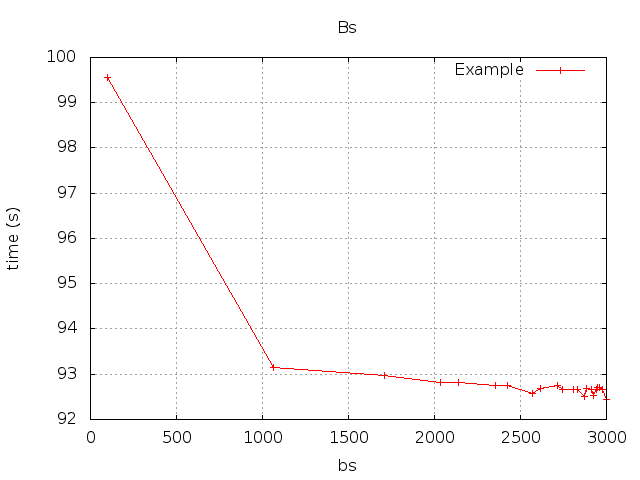
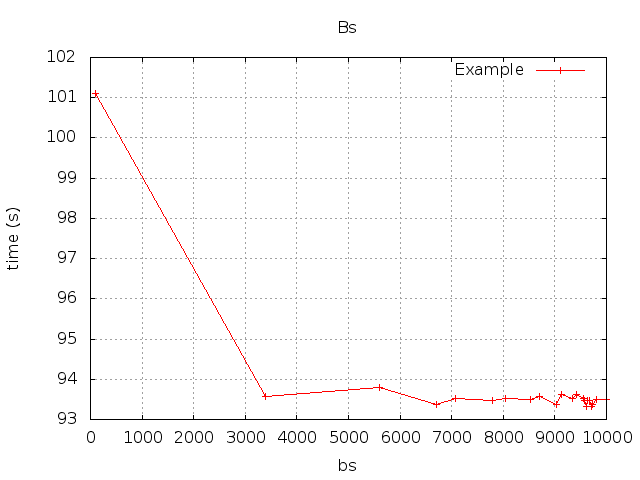
update tutorial

diff --git a/Addons/BenchEfficiency/scalfmm.html b/Addons/BenchEfficiency/scalfmm.html
@@ -1,7 +1,8 @@
 <h1 id="scalfmm-with-starpucuda">ScalFMM with StarPU+CUDA</h1>
+<p>In this tutorial, we provide the commands to install ScalFMM and the needed tools in order to compute parallel efficiencies. We first show how to obtain the homogeneous efficencies and then the heterogeneous ones (not done yet).</p>
 <h2 id="installing-the-libraries">Installing the libraries</h2>
-<p>For some installation steps, we provide a &quot;valid-if&quot; command which provide a basic test to ensure it should work. In case of success <code>STEP-OK</code> will be print-out. In addition, if a library is already installed on the system, it is possible to set the output variables directly and test with the &quot;valid-if&quot; command if it should work.</p>
-<p>The installation and configuration to have the execution traces and executions times are marked as <strong>Optional</strong> but higly recommended since they let have the efficiencies. However, if one wants to execute without any overhead, it might need to remove the usage of FXT.</p>
+<p>For some installation steps, we provide a &quot;valid-if&quot; test which shows if the previous command has been done correctly or not. In case of success <code>STEP-OK</code> will be print-out. In addition, if a library is already installed on the system, it is possible to set the output variables directly and test with the &quot;valid-if&quot; command if it will work.</p>
+<p>It is possible to follow these steps only to compile ScalFMM above StarPU and so we marked the installation of execution-trace tools as <strong>Optional</strong>. However, we higly recommended to install them and to follow all the steps since they let have the efficiencies. But if one wants to execute without any overhead, it might need to remove the usage of FXT.</p>
 <h3 id="pre-requiste">Pre-requiste:</h3>
 <p>In order to follow this tutorial, it is needed to have the following applications installed:</p>
 <ul>
@@ -16,22 +17,20 @@
 <li><strong>Optional</strong> Qt5 library to be able to change the colors of the execution traces in order to visualize the different FMM operators</li>
 </ul>
 <blockquote>
-<p>Some installations of CUDA does not have libcuda file. In this case, one needs to create a link : <code>sudo ln /usr/local/cuda-7.5/lib64/libcudart.so /usr/local/cuda-7.5/lib64/libcuda.so</code></p>
+<p>[Remark] Some installations of CUDA does not have libcuda file. In this case, one needs to create a link : <code>sudo ln /usr/local/cuda-7.5/lib64/libcudart.so /usr/local/cuda-7.5/lib64/libcuda.so</code></p>
 </blockquote>
 <blockquote>
 <p>[Plafrim-Developers]</p>
-<p>Alloc a node : salloc -N 1 --time=03:00:00 --exclusive -p court_sirocco -CHaswell --gres=gpu:4 -x sirocco06</p>
-<p>Find it: squeue and ssh on it</p>
-<p>Load modules : module load compiler/gcc/4.9.2 cuda75/toolkit/7.5.18 intel/mkl/64/11.2/2016.0.0 build/cmake/3.2.1</p>
+<p>For those who use this tutorial on Plafrim (or a similar cluster), we provide extra informations.</p>
+<p>To allocate an heterogeneous node : <code>salloc -N 1 --time=03:00:00 --exclusive -p court_sirocco -CHaswell --gres=gpu:4 -x sirocco06</code></p>
+<p>Then, find it using <code>squeue</code> and access it by <code>ssh</code>.</p>
+<p>We have run this tutorial with the modules : <code>module load compiler/gcc/4.9.2 cuda75/toolkit/7.5.18 intel/mkl/64/11.2/2016.0.0 build/cmake/3.2.1</code></p>
 </blockquote>
 <h3 id="working-directory">Working directory</h3>
-<p>The variable <code>SCALFMM_TEST_DIR</code> is used to specify the working directory:</p>
-<pre class="bash"><code>export SCALFMM_TEST_DIR=~/scalfmm_test
-if [[ ! -d $SCALFMM_TEST_DIR ]] ; then
-	mkdir $SCALFMM_TEST_DIR
-fi    
+<p>The variable <code>SCALFMM_TEST_DIR</code> is used to specify the working directory where all the tools are going to be installed:</p>
+<pre class="bash"><code>export SCALFMM_TEST_DIR=~/scalfmm_test   
 cd $SCALFMM_TEST_DIR</code></pre>
-<p>In order to be able to stop the tutorial in the middle and restart later, we will keep the register variables in a file that should be source to restart.</p>
+<p>In order to be able to stop the tutorial in the middle and restart later, we will register the variables in a file that should be source to restart later:</p>
 <pre class="bash"><code>function scalfmmRegisterVariable() { echo &quot;export $1=${!1}&quot; &gt;&gt; &quot;$SCALFMM_TEST_DIR/environment.source&quot;; }
 echo &quot;function scalfmmRegisterVariable() { echo \&quot;export $1=${!1}\&quot; &gt;&gt; \&quot;$SCALFMM_TEST_DIR/environment.source\&quot;; }&quot; &gt; &quot;$SCALFMM_TEST_DIR/environment.source&quot;</code></pre>
 <p><em>Output variables:</em> <code>scalfmmRegisterVariable SCALFMM_TEST_DIR</code></p>
@@ -39,8 +38,18 @@ echo &quot;function scalfmmRegisterVariable() { echo \&quot;export $1=${!1}\&quo
 <pre class="bash"><code>if [[ -n $SCALFMM_TEST_DIR ]] &amp;&amp; [[ -d $SCALFMM_TEST_DIR ]] ; then
    echo “STEP-OK”
 fi</code></pre>
-<h3 id="downloading-packages">Downloading Packages</h3>
-<p>In case the node used for compiling/testing do not have access to internet, then download the following packages first.</p>
+<ul>
+<li>Restarting the tutorial</li>
+</ul>
+<p>To restart the tutorial, one needs to re-define the working directory and to source the save file before to resume:</p>
+<pre><code>export SCALFMM_TEST_DIR=~/scalfmm_test
+if [[ ! -d $SCALFMM_TEST_DIR ]] ; then
+	mkdir $SCALFMM_TEST_DIR
+fi    
+cd $SCALFMM_TEST_DIR
+source &quot;$SCALFMM_TEST_DIR/environment.source&quot;</code></pre>
+<h3 id="downloading-the-packages-in-advance">Downloading the Packages (in Advance)</h3>
+<p>If the computational node does not have access to internet, we provide a command to download the needed packages (otherwise the next commands still include just in time download):</p>
 <pre class="bash"><code>cd $SCALFMM_TEST_DIR
 wget https://www.open-mpi.org/software/hwloc/v1.11/downloads/hwloc-1.11.2.tar.gz
 wget http://download.savannah.gnu.org/releases/fkt/fxt-0.2.11.tar.gz # Optional
@@ -60,7 +69,7 @@ make install</code></pre>
 <p><em>Output variables:</em> <code>scalfmmRegisterVariable SCALFMM_HWLOC_DIR</code></p>
 <p>Valid-if:</p>
 <pre class="bash"><code>if [[ -n $SCALFMM_HWLOC_DIR ]] &amp;&amp; [[ -d $SCALFMM_HWLOC_DIR/lib/ ]] &amp;&amp; [[ -f  $SCALFMM_HWLOC_DIR/lib/libhwloc.so ]]; then
-   echo “OK”
+   echo &quot;STEP-OK&quot;
 fi</code></pre>
 <h3 id="fxt-optional">FXT (<strong>Optional</strong>)</h3>
 <pre class="bash"><code>cd $SCALFMM_TEST_DIR
@@ -75,10 +84,10 @@ make install</code></pre>
 <p><em>Output variables:</em> <code>scalfmmRegisterVariable SCALFMM_FXT_DIR</code></p>
 <p>Valid-if:</p>
 <pre class="bash"><code>if [[ -n $SCALFMM_FXT_DIR ]] &amp;&amp; [[ -d $SCALFMM_FXT_DIR/lib/ ]] &amp;&amp; [[ -f  $SCALFMM_FXT_DIR/lib/libfxt.so ]]; then
-   echo “OK”
+   echo &quot;STEP-OK&quot;
 fi</code></pre>
-<h3 id="fftw">FFTW</h3>
-<p>The MKL can be used otherwise we need the FFTW lib:</p>
+<h3 id="fftw-if-no-mkl-fft">FFTW (If No MKL-FFT)</h3>
+<p>For those who do not use MKL FFT interface, they have to install FFTW (float/double):</p>
 <pre class="bash"><code>cd $SCALFMM_TEST_DIR
 if [[ ! -f fftw-3.3.4.tar.gz ]] ; then
     wget http://www.fftw.org/fftw-3.3.4.tar.gz
@@ -93,7 +102,7 @@ make install</code></pre>
 <p><em>Output variables:</em> <code>scalfmmRegisterVariable SCALFMM_FFTW_DIR</code></p>
 <p>Valid-if:</p>
 <pre class="bash"><code>if [[ -n $SCALFMM_FFTW_DIR ]] &amp;&amp; [[ -d $SCALFMM_FFTW_DIR/lib/ ]] &amp;&amp; [[ -f  $SCALFMM_FFTW_DIR/lib/libfftw3.a ]] &amp;&amp; [[ -f  $SCALFMM_FFTW_DIR/lib/libfftw3f.a ]]; then
-   echo “OK”
+   echo &quot;STEP-OK&quot;
 fi</code></pre>
 <h3 id="starpu">StarPU</h3>
 <pre class="bash"><code>cd $SCALFMM_TEST_DIR
@@ -111,7 +120,7 @@ make install</code></pre>
 <p><em>Output variables:</em> <code>scalfmmRegisterVariable SCALFMM_STARPU_DIR</code></p>
 <p>Valid-if:</p>
 <pre class="bash"><code>if [[ -n $SCALFMM_STARPU_DIR ]] &amp;&amp; [[ -d $SCALFMM_STARPU_DIR/lib/ ]] &amp;&amp; [[ -f  $SCALFMM_STARPU_DIR/lib/libstarpu.so ]] ; then
-   echo “OK”
+   echo &quot;STEP-OK&quot;
 fi</code></pre>
 <h3 id="scalfmm">ScalFMM</h3>
 <h4 id="configure">Configure</h4>
@@ -139,14 +148,14 @@ export SCALFMM_BUILD_DIR=`pwd`</code></pre></li>
 </blockquote>
 <pre class="bash"><code>cmake .. -DSCALFMM_BUILD_DEBUG=OFF -DSCALFMM_USE_MPI=OFF -DSCALFMM_BUILD_TESTS=ON -DSCALFMM_BUILD_UTESTS=OFF -DSCALFMM_USE_BLAS=ON -DSCALFMM_USE_MKL_AS_BLAS=ON -DSCALFMM_USE_LOG=ON -DSCALFMM_USE_STARPU=ON -DSCALFMM_USE_CUDA=ON -DSCALFMM_USE_OPENCL=OFF -DHWLOC_DIR=$SCALFMM_HWLOC_DIR -DSTARPU_DIR=$SCALFMM_STARPU_DIR -DSCALFMM_USE_FFT=ON -DSCALFMM_USE_MKL_AS_FFTW=ON</code></pre>
 <p>Valid-if:</p>
-<pre><code>cmake .. ; if [[ &quot;$?&quot; == &quot;0&quot; ]] ; then echo &quot;OK&quot; ; fi</code></pre>
+<pre><code>cmake .. ; if [[ &quot;$?&quot; == &quot;0&quot; ]] ; then echo &quot;STEP-OK&quot; ; fi</code></pre>
 <h4 id="build">Build</h4>
 <pre class="bash"><code>cd $SCALFMM_BUILD_DIR
 make testBlockedUnifCudaBench</code></pre>
 <p>Valid-if:</p>
-<pre><code>ls ./Tests/Release/testBlockedUnifCudaBench ; if [[ &quot;$?&quot; == &quot;0&quot; ]] ; then echo &quot;OK&quot; ; fi</code></pre>
-<h4 id="basic-executions">Basic Executions</h4>
-<p>Information for scalfmm binaries</p>
+<pre><code>ls ./Tests/Release/testBlockedUnifCudaBench ; if [[ &quot;$?&quot; == &quot;0&quot; ]] ; then echo &quot;STEP-OK&quot; ; fi</code></pre>
+<h4 id="first-execution">First Execution</h4>
+<p>In this section we compute a simulation and look at the resulting trace. ScalFMM binary parameters and descriptions:</p>
 <ul>
 <li>Passing <code>--help</code> as parameter provide the possible/valid parameters</li>
 <li>Simulation properties are choosen by :</li>
@@ -186,10 +195,10 @@ export STARPU_NCUDA=2
 </ul>
 <p>Convert the fxt file</p>
 <pre class="bash"><code>$SCALFMM_STARPU_DIR/bin/starpu_fxt_tool -i &quot;/tmp/prof_file_&quot;$USER&quot;_0&quot;</code></pre>
-<p>Then visualize the output with vite</p>
+<p>Then visualize the output with <code>vite</code></p>
 <pre class="bash"><code>vite ./paje.trace</code></pre>
 <p>Should be like: // IMAGE HERE</p>
-<p>We can convert the color of the trace by (it needs Qt5 library):</p>
+<p>We can convert the color of the trace by (requiere Qt5 library):</p>
 <pre class="bash"><code>$SCALFMM_SOURCE_DIR/Addons/BenchEfficiency/pajecolor paje.trace $SCALFMM_SOURCE_DIR/Addons/BenchEfficiency/paintmodel.fmm.colors
 vite ./paje.trace.painted</code></pre>
 <p>Should be like: // IMAGE HERE</p>
@@ -239,7 +248,7 @@ vite ./paje.trace.painted</code></pre>
 <pre><code>cd $SCALFMM_BUILD_DIR
 export SCALFMM_RES_DIR=$SCALFMM_BUILD_DIR/homogeneous
 mkdir $SCALFMM_RES_DIR</code></pre>
-<p><em>Output variable:</em> <code>scalfmmRegisterVariable SCALFMM_AB</code></p>
+<p><em>Output variable:</em> <code>scalfmmRegisterVariable SCALFMM_RES_DIR</code></p>
 <p>Set up the configuration variables:</p>
 <pre class="bash"><code>export SCALFMM_NB=10000000
 export SCALFMM_H=7
@@ -260,10 +269,12 @@ export SCALFMM_BS_CPU_PAR=`$SCALFMM_AB/scalfmmFindBs.sh &quot;./Tests/Release/te
 if [[ `which gnuplot | wc -l` == &quot;1&quot; ]] ;  then
     gnuplot -e &quot;filename=&#39;par-bs-search&#39;&quot; $SCALFMM_AB/scalfmmFindBs.gplot
 fi</code></pre>
-<p>In our case we get and 5385.</p>
+<p>In our case we get 9710 and 5385.</p>
 <p><em>Output variable:</em> <code>scalfmmRegisterVariable SCALFMM_BS_CPU_SEQ</code> <code>scalfmmRegisterVariable SCALFMM_BS_CPU_PAR</code></p>
 <p>Then we compute the efficiency using both granulirities and keep the .rec files:</p>
-<pre class="bash"><code>source $SCALFMM_AB/execAllHomogeneous.sh</code></pre>
+<pre class="bash"><code>export SCALFMM_MAX_NB_CPU=24
+export STARPU_NCUDA=0
+source $SCALFMM_AB/execAllHomogeneous.sh</code></pre>
 <p>We should end with all the .rec files and their corresponding time files</p>
 <pre class="bash"><code>ls $SCALFMM_RES_DIR</code></pre>
 <p>We compute the efficiencies</p>
@@ -273,7 +284,7 @@ fi</code></pre>
 <p>We can plot each of them</p>
 <pre class="bash"><code>source $SCALFMM_AB/plotEfficiencies.sh $SCALFMM_RES_DIR/efficiencies.txt</code></pre>
 <p>Sould give: // IMAGE HERE</p>
-<h2 id="generating-execution-results">Generating Execution Results</h2>
+<h2 id="heterogeneous">Heterogeneous</h2>
 <p>For test case <code>-nb 10000000</code> (10 million) and <code>-h 6</code> (height of the tree equal to 6), we first want to know the best granularity <code>-bs</code>.</p>
 <p>This parameter will certainly not be the same for sequential/parallel/heterogenous configurations.</p>
 <pre class="bash"><code>export SCALFMM_NB=10000000

diff --git a/Addons/BenchEfficiency/scalfmm.md b/Addons/BenchEfficiency/scalfmm.md
@@ -1,14 +1,18 @@
 ScalFMM with StarPU+CUDA
 ========================
 
+In this tutorial, we provide the commands to install ScalFMM and the needed tools in order to compute parallel efficiencies.
+We first show how to obtain the homogeneous efficencies and then the heterogeneous ones (not done yet).
+
 ## Installing the libraries
 
-For some installation steps, we provide a "valid-if" command which provide a basic test to ensure it should work.
+For some installation steps, we provide a "valid-if" test which shows if the previous command has been done correctly or not.
 In case of success `STEP-OK` will be print-out.
-In addition, if a library is already installed on the system, it is possible to set the output variables directly and test with the "valid-if" command if it should work.
+In addition, if a library is already installed on the system, it is possible to set the output variables directly and test with the "valid-if" command if it will work.
 
-The installation and configuration to have the execution traces and executions times are marked as __Optional__ but higly recommended since they let have the efficiencies.
-However, if one wants to execute without any overhead, it might need to remove the usage of FXT.
+It is possible to follow these steps only to compile ScalFMM above StarPU and so we marked the installation of execution-trace tools as __Optional__.
+However, we higly recommended to install them and to follow all the steps since they let have the efficiencies.
+But if one wants to execute without any overhead, it might need to remove the usage of FXT.
 
 ### Pre-requiste:
 In order to follow this tutorial, it is needed to have the following applications installed:
@@ -23,34 +27,32 @@ In order to follow this tutorial, it is needed to have the following application
 * __Optional__ Vite (from `sudo apt-get install vite` or see [http://vite.gforge.inria.fr/download.php](http://vite.gforge.inria.fr/download.php))
 *  __Optional__ Qt5 library to be able to change the colors of the execution traces in order to visualize the different FMM operators
 
-> Some installations of CUDA does not have libcuda file.
+> [Remark] Some installations of CUDA does not have libcuda file.
 > In this case, one needs to create a link : `sudo ln /usr/local/cuda-7.5/lib64/libcudart.so /usr/local/cuda-7.5/lib64/libcuda.so`
 
 > [Plafrim-Developers] 
 >
-> Alloc a node : salloc -N 1 --time=03:00:00 --exclusive -p court_sirocco -CHaswell --gres=gpu:4 -x sirocco06
-> 
-> Find it: squeue and ssh on it
+> For those who use this tutorial on Plafrim (or a similar cluster), we provide extra informations.
 >
-> Load modules : module load compiler/gcc/4.9.2 cuda75/toolkit/7.5.18 intel/mkl/64/11.2/2016.0.0 build/cmake/3.2.1
+> To allocate an heterogeneous node : `salloc -N 1 --time=03:00:00 --exclusive -p court_sirocco -CHaswell --gres=gpu:4 -x sirocco06`
+> 
+> Then, find it using `squeue` and access it by `ssh`.
+>
+> We have run this tutorial with the modules : `module load compiler/gcc/4.9.2 cuda75/toolkit/7.5.18 intel/mkl/64/11.2/2016.0.0 build/cmake/3.2.1`
 
 ### Working directory
 
-The variable `SCALFMM_TEST_DIR` is used to specify the working directory:
+The variable `SCALFMM_TEST_DIR` is used to specify the working directory where all the tools are going to be installed:
 ```bash
-export SCALFMM_TEST_DIR=~/scalfmm_test
-if [[ ! -d $SCALFMM_TEST_DIR ]] ; then
-	mkdir $SCALFMM_TEST_DIR
-fi    
+export SCALFMM_TEST_DIR=~/scalfmm_test   
 cd $SCALFMM_TEST_DIR
 ```
 
-In order to be able to stop the tutorial in the middle and restart later, we will keep the register variables in a file that should be source to restart.
+In order to be able to stop the tutorial in the middle and restart later, we will register the variables in a file that should be source to restart later:
 ```bash
 function scalfmmRegisterVariable() { echo "export $1=${!1}" >> "$SCALFMM_TEST_DIR/environment.source"; }
 echo "function scalfmmRegisterVariable() { echo \"export $1=${!1}\" >> \"$SCALFMM_TEST_DIR/environment.source\"; }" > "$SCALFMM_TEST_DIR/environment.source"
 ```
-
 
 *Output variables:* `scalfmmRegisterVariable SCALFMM_TEST_DIR`
 
@@ -61,10 +63,21 @@ if [[ -n $SCALFMM_TEST_DIR ]] && [[ -d $SCALFMM_TEST_DIR ]] ; then
 fi
 ```
 
+- Restarting the tutorial
+
+To restart the tutorial, one needs to re-define the working directory and to source the save file before to resume:
+```
+export SCALFMM_TEST_DIR=~/scalfmm_test
+if [[ ! -d $SCALFMM_TEST_DIR ]] ; then
+	mkdir $SCALFMM_TEST_DIR
+fi    
+cd $SCALFMM_TEST_DIR
+source "$SCALFMM_TEST_DIR/environment.source"
+```
+
 ### Downloading Packages
 
-In case the node used for compiling/testing do not have access to internet, then download the following packages first.
-
+If the computational node does not have access to internet, we provide a command to download the needed packages (otherwise the next commands still include just in time download):
 ```bash
 cd $SCALFMM_TEST_DIR
 wget https://www.open-mpi.org/software/hwloc/v1.11/downloads/hwloc-1.11.2.tar.gz
@@ -92,7 +105,7 @@ make install
 Valid-if:
 ```bash
 if [[ -n $SCALFMM_HWLOC_DIR ]] && [[ -d $SCALFMM_HWLOC_DIR/lib/ ]] && [[ -f  $SCALFMM_HWLOC_DIR/lib/libhwloc.so ]]; then
-   echo “OK”
+   echo "STEP-OK"
 fi
 ```
 
@@ -114,12 +127,12 @@ make install
 Valid-if:
 ```bash
 if [[ -n $SCALFMM_FXT_DIR ]] && [[ -d $SCALFMM_FXT_DIR/lib/ ]] && [[ -f  $SCALFMM_FXT_DIR/lib/libfxt.so ]]; then
-   echo “OK”
+   echo "STEP-OK"
 fi
 ```
 
-### FFTW
-The MKL can be used otherwise we need the FFTW lib:
+### FFTW (If No MKL-FFT)
+For those who do not use MKL FFT interface, they have to install FFTW (float/double):
 ```bash
 cd $SCALFMM_TEST_DIR
 if [[ ! -f fftw-3.3.4.tar.gz ]] ; then
@@ -139,7 +152,7 @@ make install
 Valid-if:
 ```bash
 if [[ -n $SCALFMM_FFTW_DIR ]] && [[ -d $SCALFMM_FFTW_DIR/lib/ ]] && [[ -f  $SCALFMM_FFTW_DIR/lib/libfftw3.a ]] && [[ -f  $SCALFMM_FFTW_DIR/lib/libfftw3f.a ]]; then
-   echo “OK”
+   echo "STEP-OK"
 fi
 ```
 
@@ -162,7 +175,7 @@ make install
 Valid-if:
 ```bash
 if [[ -n $SCALFMM_STARPU_DIR ]] && [[ -d $SCALFMM_STARPU_DIR/lib/ ]] && [[ -f  $SCALFMM_STARPU_DIR/lib/libstarpu.so ]] ; then
-   echo “OK”
+   echo "STEP-OK"
 fi
 ```
 
@@ -201,7 +214,7 @@ cmake .. -DSCALFMM_BUILD_DEBUG=OFF -DSCALFMM_USE_MPI=OFF -DSCALFMM_BUILD_TESTS=O
 
 Valid-if:
 ```
-cmake .. ; if [[ "$?" == "0" ]] ; then echo "OK" ; fi
+cmake .. ; if [[ "$?" == "0" ]] ; then echo "STEP-OK" ; fi
 ```
 
 #### Build
@@ -213,12 +226,13 @@ make testBlockedUnifCudaBench
 
 Valid-if:
 ```
-ls ./Tests/Release/testBlockedUnifCudaBench ; if [[ "$?" == "0" ]] ; then echo "OK" ; fi
+ls ./Tests/Release/testBlockedUnifCudaBench ; if [[ "$?" == "0" ]] ; then echo "STEP-OK" ; fi
 ```
 
-#### Basic Executions
+#### First Execution
 
-Information for scalfmm binaries
+In this section we compute a simulation and look at the resulting trace.
+ScalFMM binary parameters and descriptions:
 
 * Passing `--help` as parameter provide the possible/valid parameters
 * Simulation properties are choosen by :
@@ -266,14 +280,14 @@ Convert the fxt file
 ```bash
 $SCALFMM_STARPU_DIR/bin/starpu_fxt_tool -i "/tmp/prof_file_"$USER"_0"
 ```
-Then visualize the output with vite
+Then visualize the output with `vite`
 ```bash
 vite ./paje.trace
 ```
 
 Should be like: // IMAGE HERE
 
-We can convert the color of the trace by (it needs Qt5 library):
+We can convert the color of the trace by (requiere Qt5 library):
 
 ```bash
 $SCALFMM_SOURCE_DIR/Addons/BenchEfficiency/pajecolor paje.trace $SCALFMM_SOURCE_DIR/Addons/BenchEfficiency/paintmodel.fmm.colors
@@ -341,8 +355,7 @@ cd $SCALFMM_BUILD_DIR
 export SCALFMM_RES_DIR=$SCALFMM_BUILD_DIR/homogeneous
 mkdir $SCALFMM_RES_DIR
 ```
-
-*Output variable:* `scalfmmRegisterVariable SCALFMM_AB`
+*Output variable:* `scalfmmRegisterVariable SCALFMM_RES_DIR` 
 
 Set up the configuration variables:
 ```bash
@@ -369,12 +382,15 @@ if [[ `which gnuplot | wc -l` == "1" ]] ;  then
     gnuplot -e "filename='par-bs-search'" $SCALFMM_AB/scalfmmFindBs.gplot
 fi
 ```
-In our case we get  and 5385.
+In our case we get 9710  and 5385.
 
 *Output variable:* `scalfmmRegisterVariable SCALFMM_BS_CPU_SEQ`  `scalfmmRegisterVariable SCALFMM_BS_CPU_PAR`
 
+
 Then we compute the efficiency using both granulirities and keep the .rec files:
 ```bash
+export SCALFMM_MAX_NB_CPU=24
+export STARPU_NCUDA=0
 source $SCALFMM_AB/execAllHomogeneous.sh
 ```
 
@@ -401,7 +417,7 @@ source $SCALFMM_AB/plotEfficiencies.sh $SCALFMM_RES_DIR/efficiencies.txt
 Sould give: // IMAGE HERE
 
 
-## Generating Execution Results
+## Heterogeneous
 
 For test case `-nb 10000000` (10 million) and `-h 6` (height of the tree equal to 6),
 we first want to know the best granularity `-bs`.
